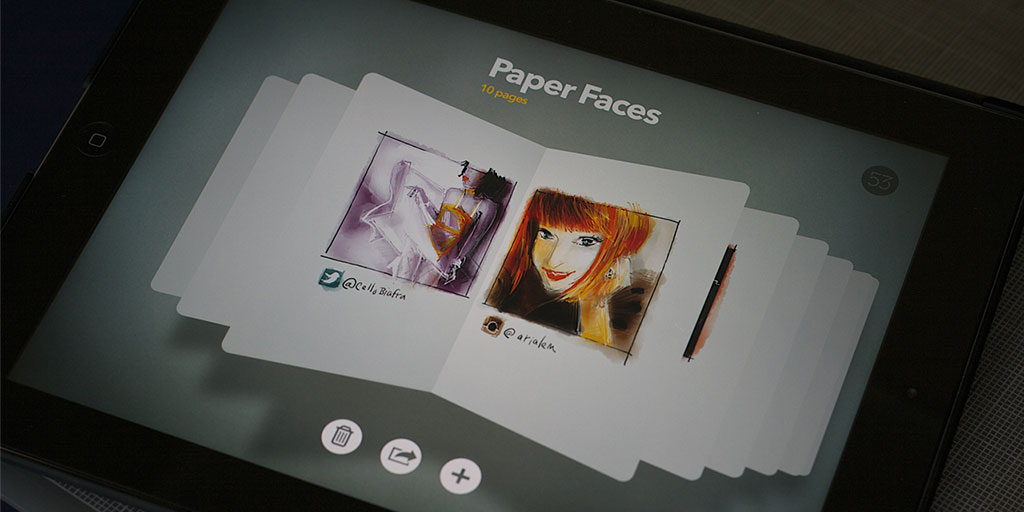
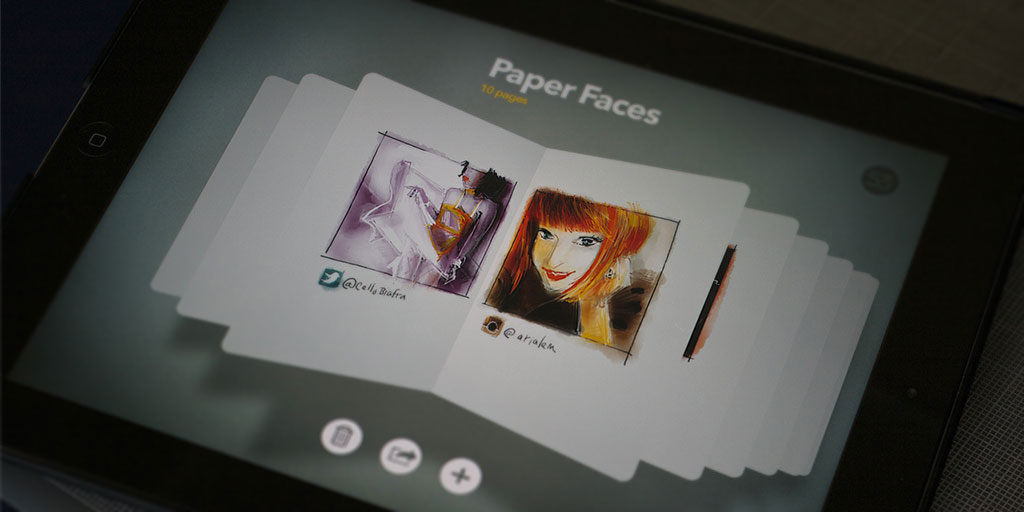
(update) Add a gaussian blue to PaperFaces feature image

diff --git a/_includes/head.html b/_includes/head.html
@@ -27,7 +27,7 @@
 <!-- Google Webfonts -->
 <link href="http://fonts.googleapis.com/css?family=Yanone+Kaffeesatz:400,300" rel="stylesheet" type="text/css">
 <!-- For all browsers -->
-<link href="{{ site.base_url }}/css/style.css?v=1.7" rel="stylesheet">
+<link href="{{ site.base_url }}/css/style.css?v=1.8" rel="stylesheet">
 
 <!--[if (lt IE 9) & (!IEMobile)]>
 <script src="{{ site.base_url }}/js/selectivizr-min.js"></script>
